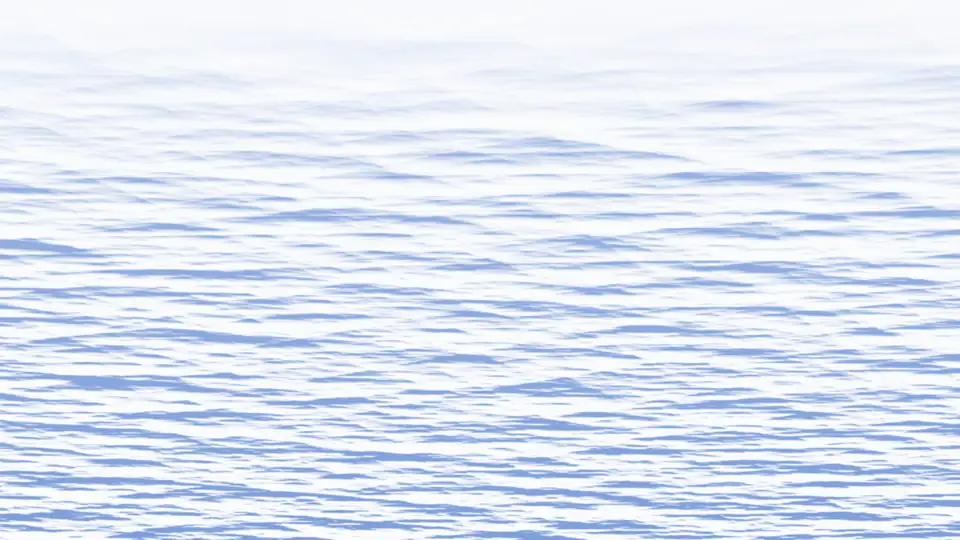
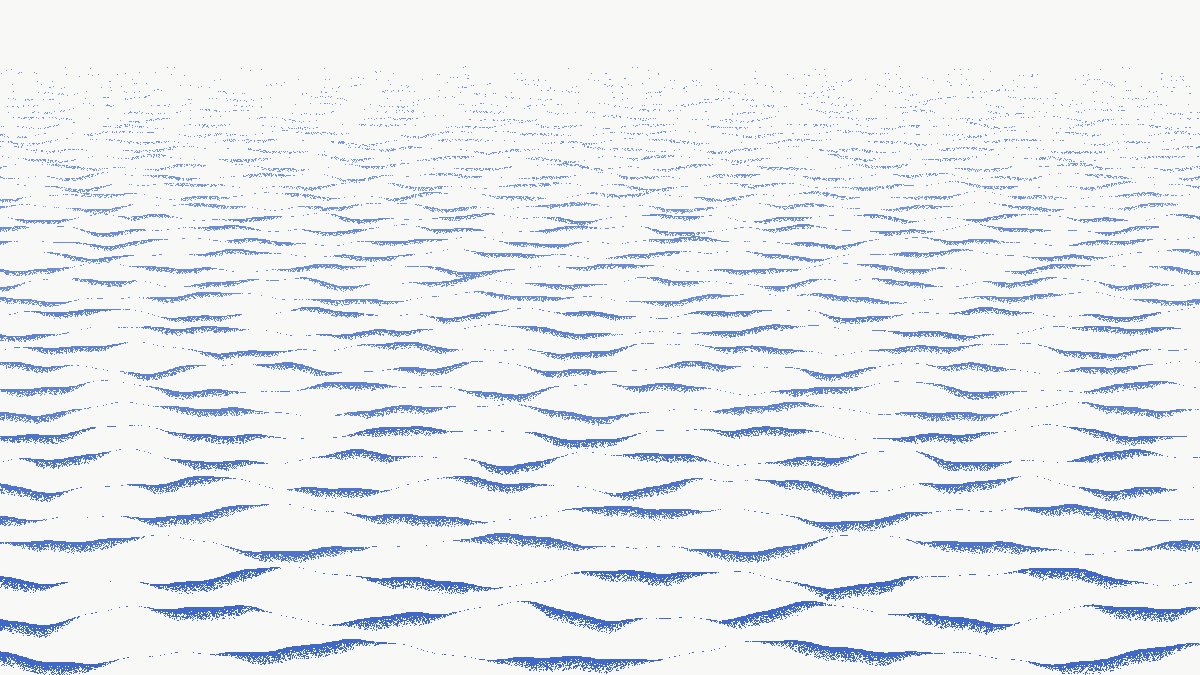
Hero: flat, grainy wave illustration instead of the realistic sea
- Redrawn as an illustration: white water as rows of curved wave
  crests in perspective, blue only in the crescent shadow under each
  crest, stipple grain dissolving the shadow edges (riso-print look),
  lighter blue and fading toward the horizon
- Six flat colours, lossless WebP: crisp dots at 55 KB (26 KB phones)
- Stronger paper veil behind the headline and text, waves fuller toward
  the preview and the bottom; light mode only
- scripts/ocean.py regenerates it: python3 scripts/ocean.py public/hero

Claude-Session: https://claude.ai/code/session_01NbMGeWVEzGgna2D3BYQ7QU

diff --git a/frontend/app/globals.css b/frontend/app/globals.css
@@ -8086,24 +8086,25 @@ html[data-theme="dark"] .t-item.on small {
 }
 
 /* =============================================================================================
-   HERO: white ocean surface (blue only in the wave shadows), faded into the paper background.
-   Light mode only. Image: public/hero/ocean.webp (generated, 78 KB; 33 KB on phones).
+   HERO: a flat, grainy illustration of a calm sea (white water, blue only in the shadow under
+   each crest), faded into the paper background. Light mode only.
+   Image: public/hero/ocean.webp (generated by scripts/ocean.py; 55 KB, 26 KB on phones).
    ============================================================================================= */
 html:not([data-theme="dark"]) .hero {
   background:
     linear-gradient(180deg, rgb(var(--hero-bg-rgb)) 0%, rgba(var(--hero-bg-rgb), 0) 28%, rgba(var(--hero-bg-rgb), 0) 72%, rgb(var(--hero-bg-rgb)) 100%),
-    linear-gradient(rgba(var(--hero-bg-rgb), 0.42), rgba(var(--hero-bg-rgb), 0.42)),
+    linear-gradient(90deg, rgba(var(--hero-bg-rgb), 0.86) 0%, rgba(var(--hero-bg-rgb), 0.78) 34%, rgba(var(--hero-bg-rgb), 0.3) 52%, rgba(var(--hero-bg-rgb), 0.3) 100%),
     var(--grain) repeat,
-    url("/hero/ocean.webp") center 40% / cover no-repeat,
+    url("/hero/ocean.webp") center 55% / cover no-repeat,
     var(--hero-bg);
 }
 @media (max-width: 700px) {
   html:not([data-theme="dark"]) .hero {
     background:
       linear-gradient(180deg, rgb(var(--hero-bg-rgb)) 0%, rgba(var(--hero-bg-rgb), 0) 22%, rgba(var(--hero-bg-rgb), 0) 80%, rgb(var(--hero-bg-rgb)) 100%),
-      linear-gradient(rgba(var(--hero-bg-rgb), 0.45), rgba(var(--hero-bg-rgb), 0.45)),
+      linear-gradient(180deg, rgba(var(--hero-bg-rgb), 0.88) 0%, rgba(var(--hero-bg-rgb), 0.82) 30%, rgba(var(--hero-bg-rgb), 0.35) 48%, rgba(var(--hero-bg-rgb), 0.35) 100%),
       var(--grain) repeat,
-      url("/hero/ocean-sm.webp") center / cover no-repeat,
+      url("/hero/ocean-sm.webp") center 60% / cover no-repeat,
       var(--hero-bg);
   }
 }

diff --git a/frontend/scripts/ocean.py b/frontend/scripts/ocean.py
@@ -1,45 +1,56 @@
-# Generates public/hero/ocean.webp and ocean-sm.webp (white sea, blue wave shadows).
-# Run from frontend/:  python3 scripts/ocean.py   (needs numpy and Pillow)
+# Generates public/hero/ocean.webp and ocean-sm.webp: a flat, grainy illustration of a calm sea
+# (white water, blue only in the shadow under each crest).
+# Run from frontend/:  python3 scripts/ocean.py public/hero   (needs numpy and Pillow)
+# Flat, grainy illustration of a calm sea: white water, rows of wave crests, blue only in the
+# shadow under each crest; grain breaks up the shadow edges like a riso print.
 import numpy as np
-from PIL import Image, ImageFilter
-W, H = 2400, 1350
-rng = np.random.default_rng(7)
-y, x = np.mgrid[0:H, 0:W].astype(np.float32)
-# perspective: waves get smaller and flatter toward the top (horizon)
-depth = 0.35 + 0.65 * (y / H)            # 0.35 far .. 1 near
-yy = (y / H) ** 1.6 * H                  # compress rows near the top
-h = np.zeros((H, W), np.float32)
-for i in range(26):
-    ang = rng.normal(0, 0.45)            # mostly travelling toward the viewer
-    k = rng.uniform(0.018, 0.075)        # wave number
-    amp = 1.0 / (k * 60) ** 1.3
-    ph = rng.uniform(0, 2 * np.pi)
-    dx, dy = np.sin(ang), np.cos(ang)
-    t = (x * dx * depth + yy * dy * 2.2) * k + ph
-    # sharper crests, flat troughs (trochoid-like)
-    h += amp * (1 - np.abs(np.sin(t / 2))) ** 1.6
-# fine ripples
-small = rng.random((H // 6, W // 6)).astype(np.float32)
-small = np.asarray(Image.fromarray((small * 255).astype(np.uint8)).resize((W, H), Image.BICUBIC).filter(ImageFilter.GaussianBlur(3)), np.float32) / 255
-h += 0.06 * small
-# lighting: sun from the upper right, low; shading = slope facing away
-gy, gx = np.gradient(h)
-nx, ny, nz = -gx * 9 * depth, -gy * 9 * depth, np.ones_like(h)
-n = np.sqrt(nx ** 2 + ny ** 2 + nz ** 2); nx, ny, nz = nx / n, ny / n, nz / n
-L = np.array([0.35, -0.55, 0.76]); L /= np.linalg.norm(L)
-lit = np.clip(nx * L[0] + ny * L[1] + nz * L[2], 0, 1)
-shade = np.clip((0.86 - lit) / 0.40, 0, 1) ** 1.6      # 0 = white, 1 = deepest blue
-shade *= 0.55 + 0.45 * depth                            # far waves softer
-white = np.array([250, 251, 253], np.float32)
-blue = np.array([78, 124, 206], np.float32)             # ocean shadow
-img = white * (1 - shade[..., None] * 0.72) + blue * (shade[..., None] * 0.72)
-# haze toward the horizon
-haze = np.clip(1 - y / (H * 0.35), 0, 1)[..., None] ** 2
-img = img * (1 - haze * 0.75) + white * (haze * 0.75)
-im = Image.fromarray(np.clip(img, 0, 255).astype(np.uint8)).filter(ImageFilter.GaussianBlur(1.1))
+from PIL import Image
+import sys, os
+W, H = 1920, 1080
+OUT = sys.argv[1] if len(sys.argv) > 1 else "."
+rng = np.random.default_rng(26)
+x = np.arange(W, dtype=np.float32)
+paper = np.array([248, 248, 246], np.float32)
+blue = np.array([58, 98, 196], np.float32)      # shadow ink
+blue2 = np.array([138, 168, 224], np.float32)   # lighter ink for far rows
+ink = np.zeros((H, W), np.float32)              # 0 = paper, 1 = full ink
+tone = np.zeros((H, W), np.float32)             # 0 = far/light ink, 1 = near/deep ink
+Y = np.arange(H, dtype=np.float32)[:, None]
 
-im.resize((1920, 1080), Image.LANCZOS).save('public/hero/ocean.webp', 'WEBP', quality=66, method=6)
-im.resize((960, 540), Image.LANCZOS).save('public/hero/ocean-sm.webp', 'WEBP', quality=64, method=6)
+# rows from the horizon (top) to the front (bottom), spacing grows toward the viewer
+y = 0.10 * H
+rows = []
+while y < H + 40:
+    t = y / H
+    rows.append(y)
+    y += 7 + 64 * t ** 1.5
+for y0 in rows:
+    t = min(1, y0 / H)
+    amp = 1.5 + 13 * t ** 1.4               # crest height
+    k1 = rng.uniform(0.010, 0.016) / (0.35 + t)  # wider waves near the front
+    p1, p2, p3 = rng.uniform(0, 6.28, 3)
+    crest = y0 + amp * (np.sin(x * k1 + p1) + 0.45 * np.sin(x * k1 * 2.3 + p2)) + 1.5 * np.sin(x * 0.07 + p3)
+    # shadow thickness: crescents that swell and taper along the row
+    thick = (2 + 22 * t ** 1.3) * np.clip(0.55 + 0.75 * np.sin(x * k1 * 1.7 + p2 + 1.3), 0, 1) ** 1.5
+    d = (Y - crest[None, :]) / np.maximum(thick[None, :], 0.5)   # 0 at crest, 1 at shadow end
+    band = np.clip(1 - d, 0, 1) * (d >= 0)
+    band = band ** 0.6                                           # solid near the crest, fading down
+    ink = np.maximum(ink, band)
+    tone = np.where(band > 0, np.maximum(tone, t), tone)
 
-import os
-for f in ['ocean.webp', 'ocean-sm.webp']: print(f, os.path.getsize('public/hero/' + f) // 1024, 'KB')
+# horizon haze: ink fades out toward the top
+ink *= np.clip((Y / H - 0.08) / 0.25, 0, 1) ** 1.2
+# grain: stochastic threshold so soft edges dissolve into dots
+g = rng.random((H, W)).astype(np.float32)
+dots = (ink > g * 0.95).astype(np.float32)
+dots = np.maximum(dots, (ink > 0.85).astype(np.float32))         # solid cores
+col = blue2[None, None] * (1 - tone[..., None]) + blue[None, None] * tone[..., None]
+img = paper[None, None] * (1 - dots[..., None]) + col * dots[..., None]
+# paper grain over everything
+# (paper grain comes from the page itself, so the file stays small)
+img = np.clip(img, 0, 255).astype(np.uint8)
+im = Image.fromarray(img)
+# few flat colours + lossless WebP: crisp dots, small file
+im.quantize(6).convert("RGB").save(os.path.join(OUT, "ocean.webp"), "WEBP", lossless=True, method=6)
+im.resize((1200, 675), Image.NEAREST).quantize(6).convert("RGB").save(os.path.join(OUT, "ocean-sm.webp"), "WEBP", lossless=True, method=6)
+for f in ["ocean.webp", "ocean-sm.webp"]: print(f, os.path.getsize(os.path.join(OUT, f)) // 1024, "KB")
